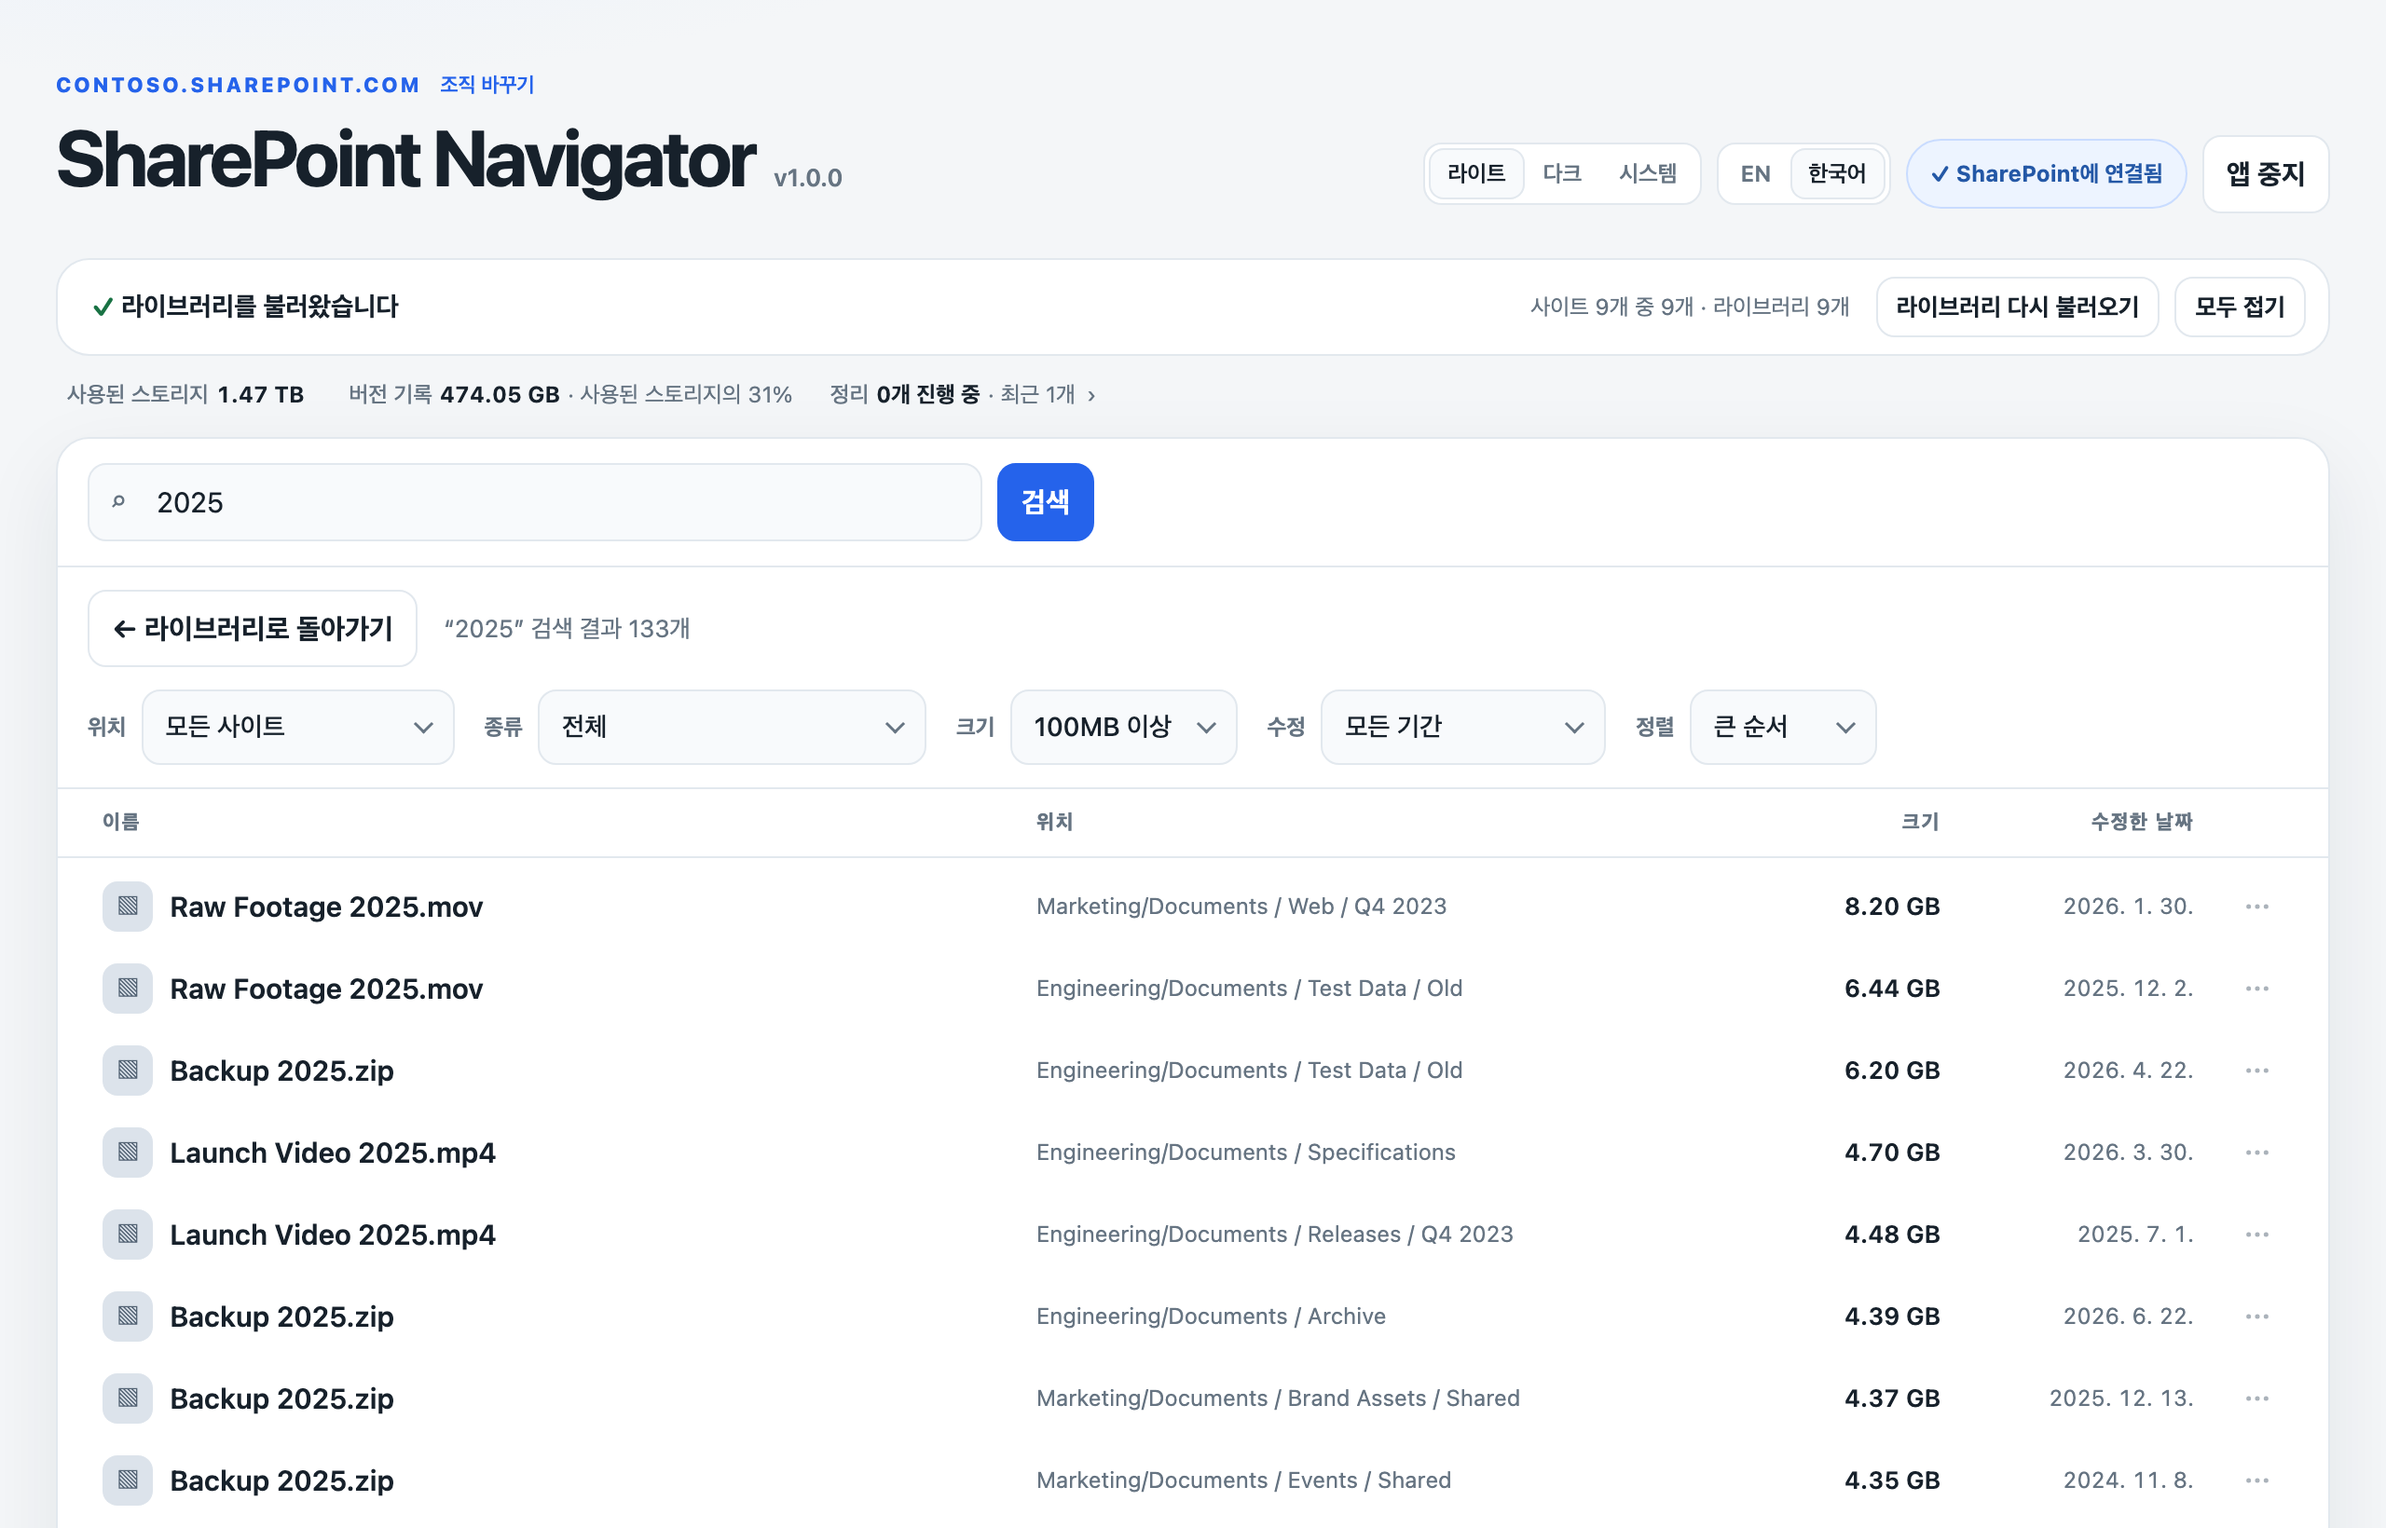
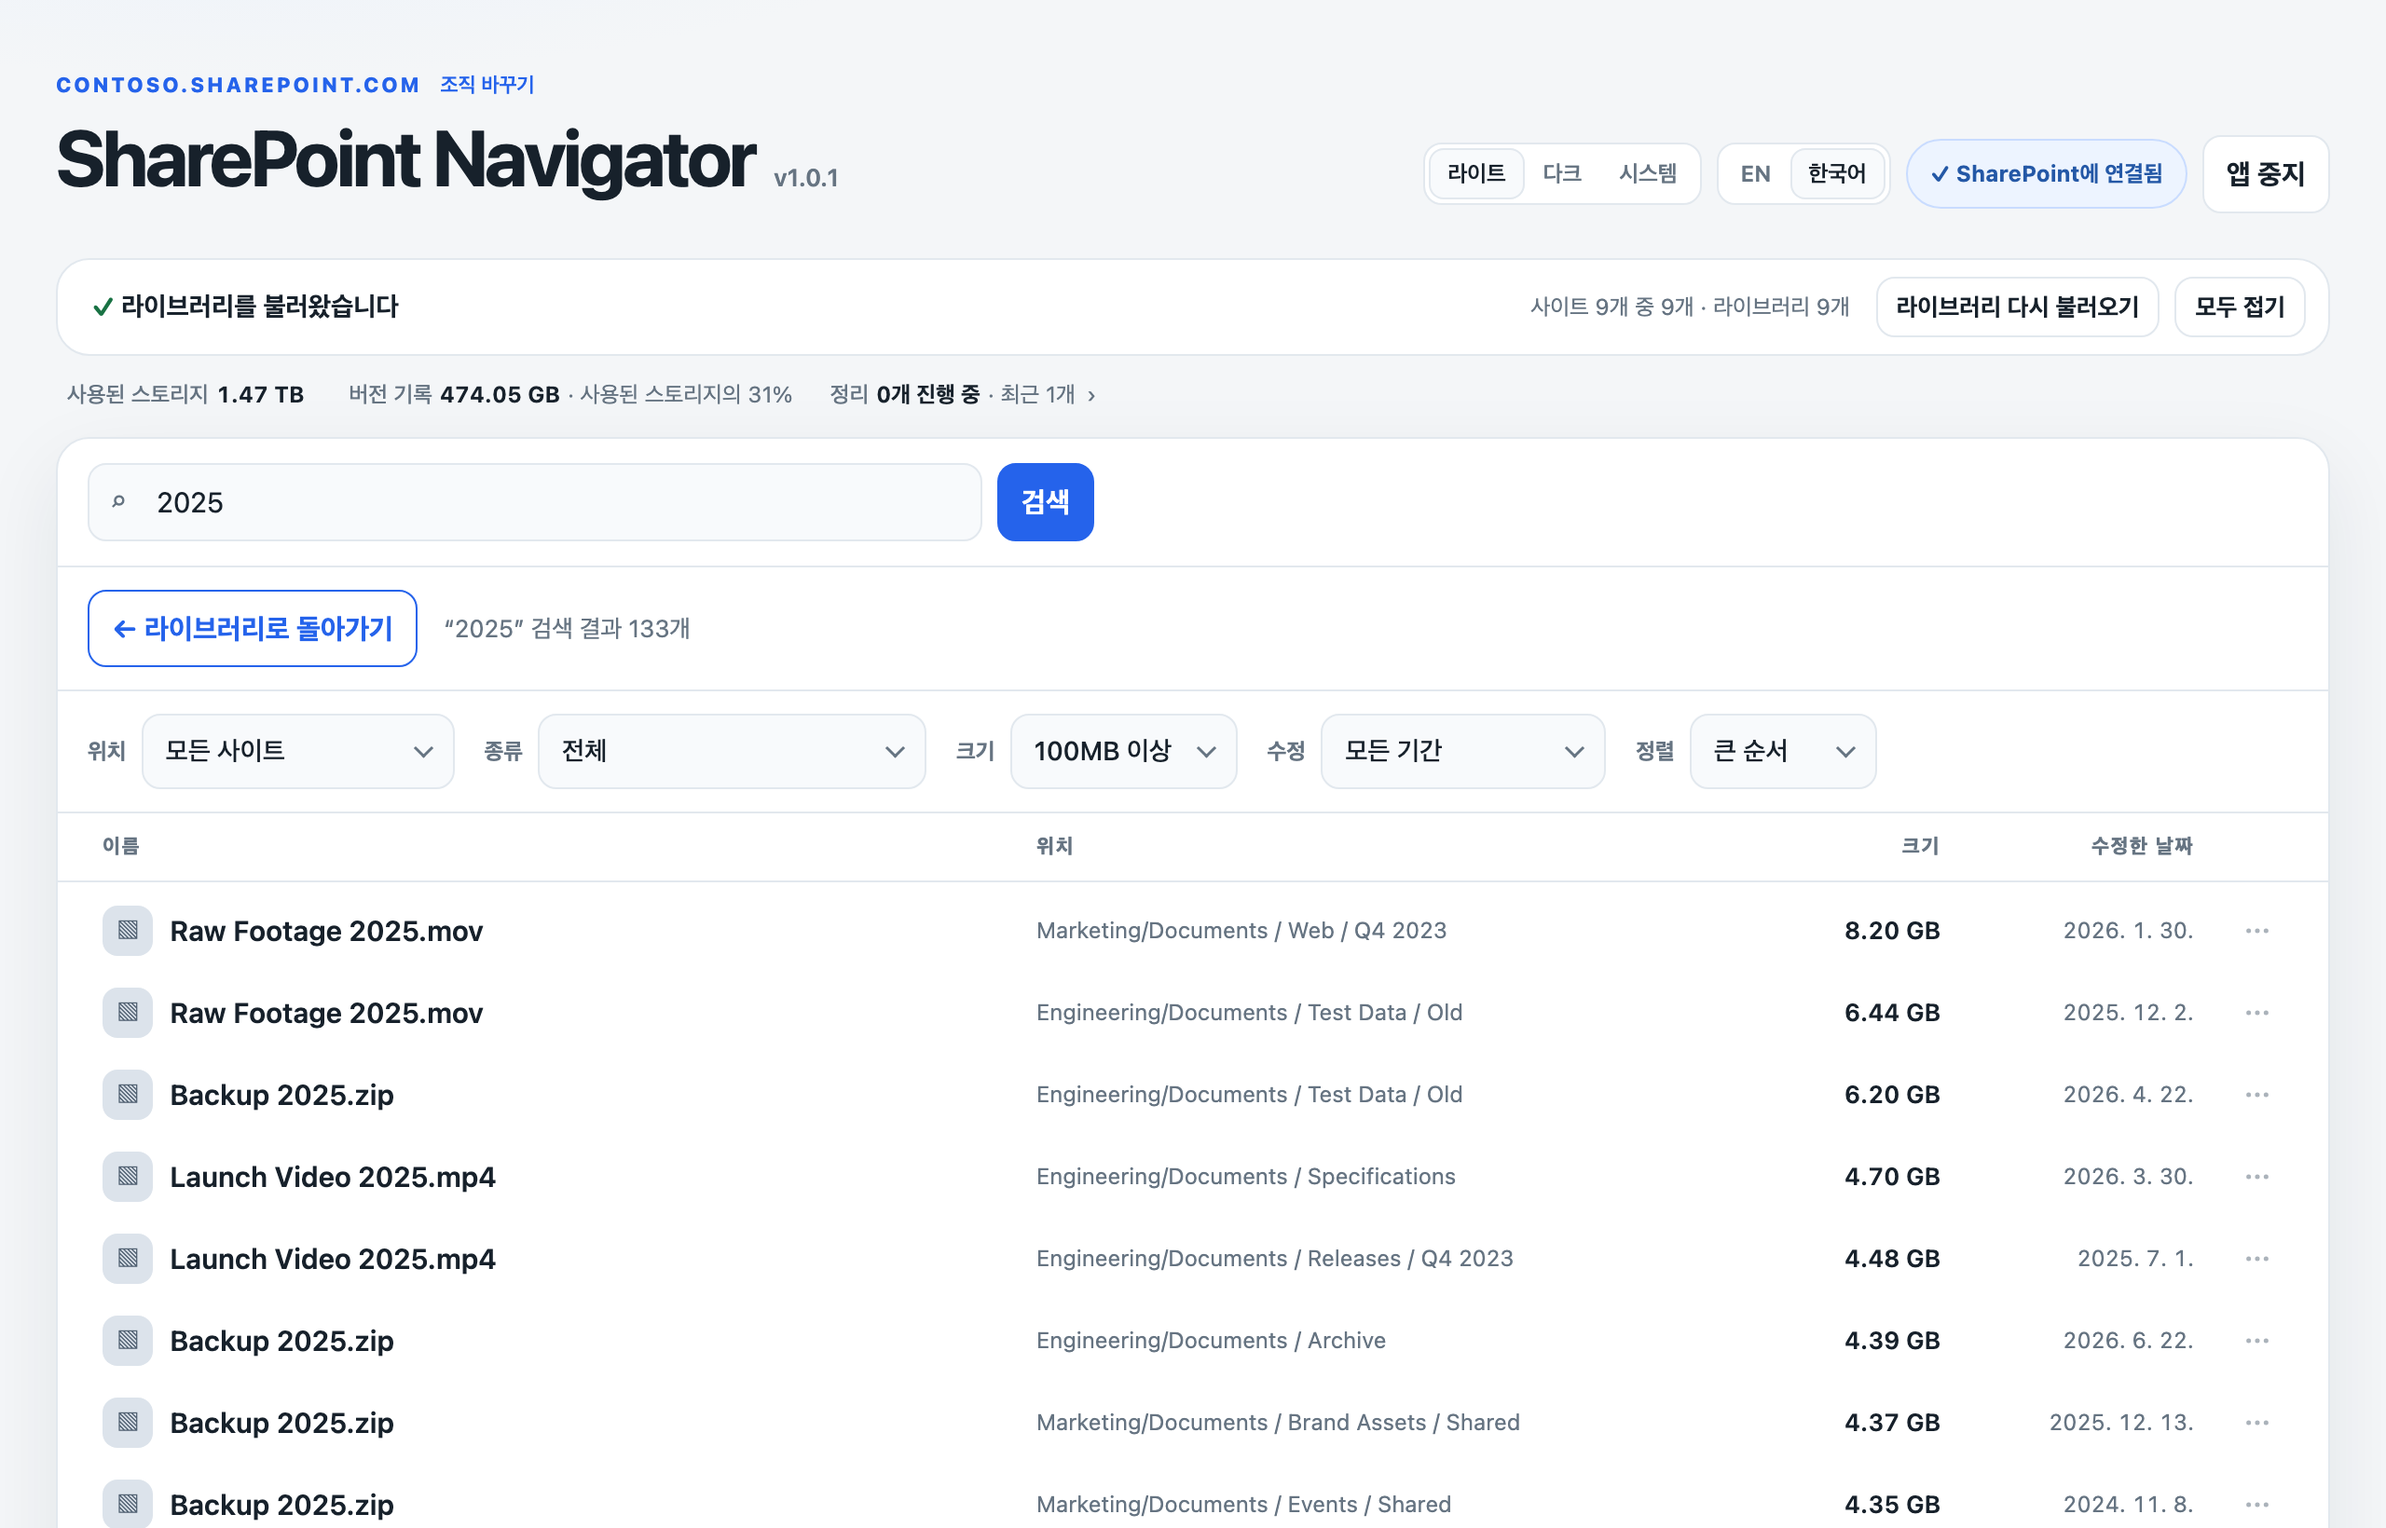
1.0.1: easier way back from search results
Back to libraries stays at the top while results scroll and uses the accent
colour; opening results adds one browser history step so Back (button, mouse,
swipe) returns to the tree; Esc works anywhere on the page. Screenshots retaken.
72 offline tests.

diff --git a/sharepoint-navigator.html b/sharepoint-navigator.html
@@ -366,7 +366,11 @@
     /* ==== Search results: replace the tree (and its header and footnote) while a search is open ==== */
     .tree-panel.searching .tree-head, .tree-panel.searching #tree, .tree-panel.searching > .notice,
     .tree-panel.searching .toolbar .narrow-only { display: none; }
-    .search-top { display: flex; flex-wrap: wrap; align-items: center; gap: 8px 14px; padding: 12px 16px 0; }
+    /* Back and the result count stay at the top of the window while the results scroll, so the
+       way back to the tree is always in view. Works because .tree-panel clips instead of scrolling. */
+    .search-top { position: sticky; top: 0; z-index: 3; display: flex; flex-wrap: wrap; align-items: center; gap: 8px 14px; padding: 12px 16px; border-bottom: 1px solid var(--border); background: var(--surface); }
+    /* Back reads as the way out: accent text and border (one rule for light and dark, via the token). */
+    .search-back { color: var(--accent); border-color: currentColor; }
     .search-summary { color: var(--muted); font-size: 13px; overflow-wrap: anywhere; }
     .search-filters { display: flex; flex-wrap: wrap; gap: 8px 16px; padding: 12px 16px; border-bottom: 1px solid var(--border); }
     /* Same grid idea as the tree: header and rows share --columns. */
@@ -575,7 +579,7 @@
       <!-- Search results (runSearch): shown instead of the tree while a search is open -->
       <div class="search-view" id="searchView" hidden>
         <div class="search-top">
-          <button class="button" id="searchBack" type="button" data-i18n="search.back">← Back to libraries</button>
+          <button class="button search-back" id="searchBack" type="button" data-i18n="search.back" data-i18n-title="search.backTitle" title="Back to the library tree (Esc or the browser's Back button)">← Back to libraries</button>
           <span class="search-summary" id="searchSummary" aria-live="polite"></span>
         </div>
         <!-- Filters; changing one searches again. Values are the service's choice names. -->
@@ -935,7 +939,7 @@
           'trims.done': 'Finished', 'trims.failed': 'Failed', 'trims.stopped': 'Stopped',
           'trims.result': '{when} · {deleted} versions deleted · {freed} freed',
           'notice.title': 'About these numbers', 'size.tip': 'Current files: {current} · Version history: {history}',
-          'search.button': 'Search', 'search.back': '← Back to libraries',
+          'search.button': 'Search', 'search.back': '← Back to libraries', 'search.backTitle': "Back to the library tree (Esc or the browser's Back button)",
           'badge.signIn': 'Sign-in needed', 'connect.change': 'Change organisation',
           'row.download': 'Download', 'row.downloadTitle': 'Download {name}',
           'row.delete': 'Delete…',
@@ -1083,7 +1087,7 @@
           'trims.done': '완료', 'trims.failed': '실패', 'trims.stopped': '중지됨',
           'trims.result': '{when} · 버전 {deleted}개 삭제 · {freed} 확보',
           'notice.title': '이 숫자에 대해', 'size.tip': '현재 파일: {current} · 버전 기록: {history}',
-          'search.button': '검색', 'search.back': '← 라이브러리로 돌아가기',
+          'search.button': '검색', 'search.back': '← 라이브러리로 돌아가기', 'search.backTitle': '라이브러리 트리로 돌아갑니다 (Esc 또는 브라우저의 뒤로 버튼)',
           'badge.signIn': '로그인 필요', 'connect.change': '조직 바꾸기',
           'row.download': '다운로드', 'row.downloadTitle': '{name} 다운로드',
           'row.delete': '삭제…',
@@ -3394,17 +3398,32 @@
         select.value = sites.some(site => site.url === current) ? current : '';
       }
       // Swap the tree for the results (or back). The tree keeps its state underneath.
+      // Opening adds one browser history step, so the browser's Back button (or a mouse or
+      // trackpad back gesture) returns to the tree instead of leaving the app.
       function setSearchOpen(open) {
+        if (open && !searchState.active) history.pushState({ spnavSearch: true }, '');
         searchState.active = open;
         searchView.hidden = !open;
         treePanel.classList.toggle('searching', open);
       }
-      // Back to the tree; a reply still on its way is dropped.
-      function closeSearch() {
+      // Back to the tree; a reply still on its way is dropped. Closing from the page (Back
+      // button, Esc, clearing the box, Show in tree) also removes the history step it added.
+      function closeSearch(fromHistory = false) {
+        if (!searchState.active) return;
         searchState.seq++;
         searchState.loading = false;
         setSearchOpen(false);
+        if (!fromHistory && history.state && history.state.spnavSearch) history.back();
       }
+      // The browser went back (or forward) past the results: follow it.
+      addEventListener('popstate', () => {
+        if (searchState.active && !(history.state && history.state.spnavSearch)) closeSearch(true);
+      });
+      // The page does its own scrolling (Show in tree scrolls to the result); stop the browser
+      // from jumping back to an old position when the history step is removed.
+      history.scrollRestoration = 'manual';
+      // A reload keeps the history state but not the results; start from a clean entry.
+      if (history.state && history.state.spnavSearch) history.replaceState(null, '');
       // Run the search in the box (append = load the next block of the same search).
       async function runSearch(append = false) {
         const query = append ? searchState.query : searchEl.value.trim();
@@ -3639,7 +3658,15 @@
       });
       searchEl.addEventListener('input', () => { if (!searchEl.value && searchState.active) closeSearch(); });
       for (const select of Object.values(searchFilters)) select.addEventListener('change', () => { if (searchState.active) void runSearch(); });
-      $('searchBack').addEventListener('click', closeSearch);
+      $('searchBack').addEventListener('click', () => closeSearch());
+      // Esc anywhere goes back to the tree while results are shown, unless a dialog or the row
+      // menu has it (they close themselves first) or a drop-down is open.
+      document.addEventListener('keydown', event => {
+        if (event.key !== 'Escape' || !searchState.active || event.defaultPrevented) return;
+        if (document.querySelector('dialog[open]') || !rowMenu.hidden || event.target.tagName === 'SELECT') return;
+        event.preventDefault();
+        closeSearch();
+      });
       // Search button: same as Enter; with an empty box it just puts the cursor in the box.
       $('searchButton').addEventListener('click', () => {
         if (!searchEl.value.trim() && !searchState.active) searchEl.focus();

diff --git a/sharepoint-navigator.py b/sharepoint-navigator.py
@@ -75,7 +75,7 @@ from msal_extensions import PersistedTokenCache, build_encrypted_persistence
 
 # App version, "vibe" scheme x.y.z: each working session raises z; a meaningful change raises y
 # and resets z. The only place it is set; every change is recorded in docs/HISTORY.md.
-__version__ = "1.0.0"
+__version__ = "1.0.1"
 
 # User files (client ID) live in APP_ROOT; bundled files (the HTML page) in RESOURCE_ROOT.
 FROZEN = bool(getattr(sys, "frozen", False))

diff --git a/docs/HISTORY.md b/docs/HISTORY.md
@@ -4,6 +4,7 @@
 
 | Version | Date | Change |
 |---|---|---|
+| 1.0.1 | 2026-11-03 | The way back from search results is easier to find: Back to libraries stays at the top while scrolling and stands out; the browser's Back button and Esc anywhere also return to the tree. 72 offline tests. |
 | 1.0.0 | 2026-11-03 | Version 1.0, set by the owner. The same app as 0.8.0 (row menu, file dates, Delete with many confirmations), released as the first 1.x. 72 offline tests. |
 | 0.8.0 | 2026-11-03 | Delete for files and folders (to the site's recycle bin), behind many confirmations: live preview, tick-boxes, typed name and file count, a countdown and a last question; the service re-checks it all. 72 offline tests. |
 | 0.7.0 | 2026-11-03 | Row actions move into one "⋯" menu per row (also on right-click), freeing the wide actions column. Files show their last-modified date under the size. 57 offline tests. |
@@ -32,6 +33,25 @@ Versions follow the owner's "vibe" scheme: `x.y.z`. Each working session raises 
 (a new feature or product) raises y and resets z to 0. x stays 0 until the owner says 1.0. The version is
 set in one place, `__version__` in `sharepoint-navigator.py`, and shown in the page header, the
 terminal, `--version` and `--self-check`.
+
+## 1.0.1, 3 November 2026
+
+**Getting back from search results.** The owner found it unclear how to return to the library tree after a
+search. The way back existed (a "← Back to libraries" button, Esc in the search box, clearing the box) but was
+easy to miss, and the button scrolled away with long result lists. Now:
+
+- The bar with Back and the result count sticks to the top of the window while the results scroll, and the
+  button has the accent colour so it reads as the way out. Its tooltip names the other ways back.
+- Opening results adds one browser history step, so the browser's Back button, a mouse back button or a
+  trackpad swipe returns to the tree instead of leaving the page. Closing the results any other way removes
+  that step again, so history never piles up; a reload starts clean. The browser's own scroll restoration is
+  off, so it can't fight Show in tree scrolling to the result.
+- Esc returns to the tree from anywhere on the page, not only the search box. An open dialog or row menu
+  takes Esc first, and so does an open drop-down.
+
+Checked in the demo with headless Chrome: each way back (browser Back, Esc on the page, the Back button, Show
+in tree), Esc with a row menu open (closes only the menu), a reload with results open, the sticky bar after
+scrolling, English and Korean. Search screenshots retaken. Offline tests 72/72.
 
 ## 1.0.0, 3 November 2026
 

diff --git a/README.md b/README.md
@@ -14,7 +14,8 @@ macOS and Windows · MIT licence. Changes are listed in [docs/HISTORY.md](docs/H
 - **Storage used, split in two.** Each bar shows the current files (blue) and the version history SharePoint
   keeps (orange). One scale for every row: the largest library is 100%.
 - **Search across all sites.** One search through SharePoint's index, with filters for site, type, size and
-  date. **Show in tree** opens the folders down to the result and highlights it.
+  date. **Show in tree** opens the folders down to the result and highlights it. **← Back to libraries**
+  stays at the top while you scroll the results; Esc or the browser's Back button also return to the tree.
 - **Download** any file from the tree or from search results, without opening SharePoint.
 - **Rename, copy and move** within a library, with a preview and a check that the item hasn't changed meanwhile.
 - **Delete** a file or folder to the site's recycle bin, behind several confirmations: a live preview (a folder
